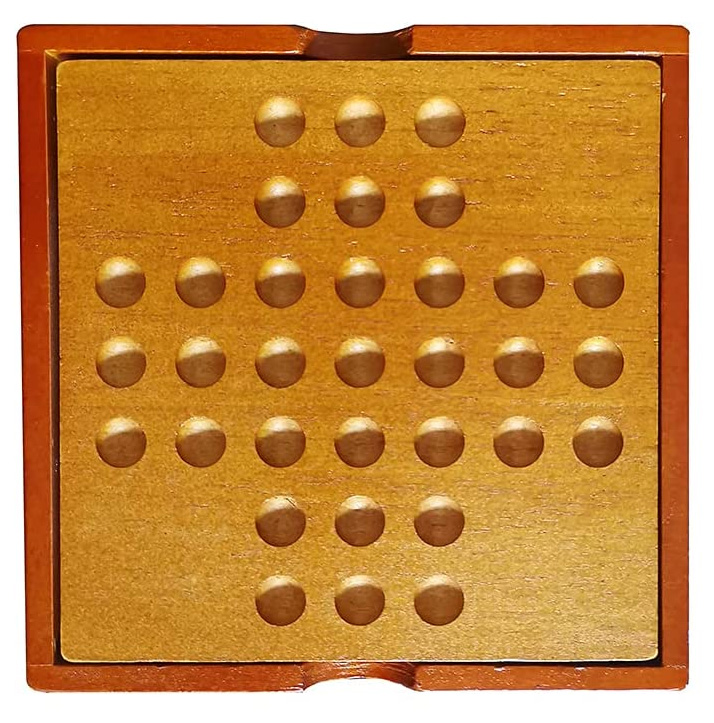
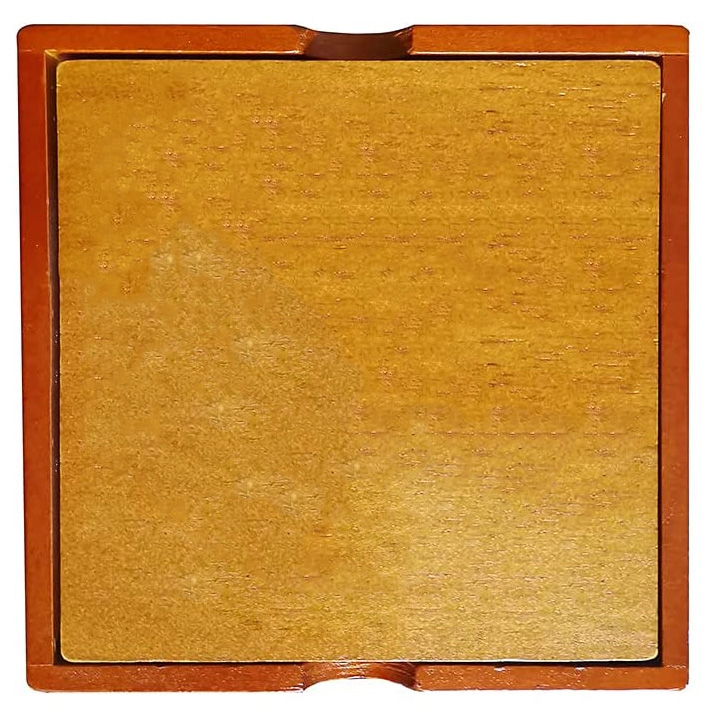
css almost works

Changed region(s): [[0.0616, 0.1217, 0.8936, 0.8824]]

diff --git a/fun/03/index.html b/fun/03/index.html
@@ -11,51 +11,67 @@
 		<div class="all">
 			<div class="board">
 				<div class="line">
-					<div id="slot13" class="peg" draggable="true" ondragstart="dragStart(event);"></div>
-					<div id="slot14" class="peg" draggable="true" ondragstart="dragStart(event);"></div>
-					<div id="slot15" class="peg" draggable="true" ondragstart="dragStart(event);"></div>
+					<div class="slot"></div>
+					<div class="slot"></div>
+					<div id="slot13" class="peg slot" draggable="true" ondragstart="dragStart(event);"><img src="peg2.png"></div>
+					<div id="slot14" class="peg slot" draggable="true" ondragstart="dragStart(event);"><img src="peg2.png"></div>
+					<div id="slot15" class="peg slot" draggable="true" ondragstart="dragStart(event);"><img src="peg2.png"></div>
+					<div class="slot"></div>
+					<div class="slot"></div>
 		  		</div>
 				<div class="line">
-					<div id="slot23" class="peg" draggable="true" ondragstart="dragStart(event);"></div>
-					<div id="slot24" class="peg" draggable="true" ondragstart="dragStart(event);"></div>
-					<div id="slot25" class="peg" draggable="true" ondragstart="dragStart(event);"></div>
+					<div class="slot"></div>
+					<div class="slot"></div>
+					<div id="slot23" class="peg slot" draggable="true" ondragstart="dragStart(event);"><img src="peg2.png"></div>
+					<div id="slot24" class="peg slot" draggable="true" ondragstart="dragStart(event);"><img src="peg2.png"></div>
+					<div id="slot25" class="peg slot" draggable="true" ondragstart="dragStart(event);"><img src="peg2.png"></div>
+					<div class="slot"></div>
+					<div class="slot"></div>
 		  		</div>
 				<div class="line">
-					<div id="slot31" class="peg" draggable="true" ondragstart="dragStart(event);"></div>
-					<div id="slot32" class="peg" draggable="true" ondragstart="dragStart(event);"></div>
-					<div id="slot33" class="peg" draggable="true" ondragstart="dragStart(event);"></div>
-					<div id="slot34" class="peg" draggable="true" ondragstart="dragStart(event);"></div>
-					<div id="slot35" class="peg" draggable="true" ondragstart="dragStart(event);"></div>
-					<div id="slot36" class="peg" draggable="true" ondragstart="dragStart(event);"></div>
-					<div id="slot37" class="peg" draggable="true" ondragstart="dragStart(event);"></div>
+					<div id="slot31" class="peg slot" draggable="true" ondragstart="dragStart(event);"><img src="peg2.png"></div>
+					<div id="slot32" class="peg slot" draggable="true" ondragstart="dragStart(event);"><img src="peg2.png"></div>
+					<div id="slot33" class="peg slot" draggable="true" ondragstart="dragStart(event);"><img src="peg2.png"></div>
+					<div id="slot34" class="peg slot" draggable="true" ondragstart="dragStart(event);"><img src="peg2.png"></div>
+					<div id="slot35" class="peg slot" draggable="true" ondragstart="dragStart(event);"><img src="peg2.png"></div>
+					<div id="slot36" class="peg slot" draggable="true" ondragstart="dragStart(event);"><img src="peg2.png"></div>
+					<div id="slot37" class="peg slot" draggable="true" ondragstart="dragStart(event);"><img src="peg2.png"></div>
 		  		</div>
 				<div class="line">
-					<div id="slot41" class="peg" draggable="true" ondragstart="dragStart(event);"></div>
-					<div id="slot42" class="peg" draggable="true" ondragstart="dragStart(event);"></div>
-					<div id="slot43" class="peg" draggable="true" ondragstart="dragStart(event);"></div>
-					<div id="slot44" class="empty-slot" ondragover="allowDrop(event);" ondrop="drop(event);"></div>
-					<div id="slot45" class="peg" draggable="true" ondragstart="dragStart(event);"></div>
-					<div id="slot46" class="peg" draggable="true" ondragstart="dragStart(event);"></div>
-					<div id="slot47" class="peg" draggable="true" ondragstart="dragStart(event);"></div>
+					<div id="slot41" class="peg slot" draggable="true" ondragstart="dragStart(event);"><img src="peg2.png"></div>
+					<div id="slot42" class="peg slot" draggable="true" ondragstart="dragStart(event);"><img src="peg2.png"></div>
+					<div id="slot43" class="peg slot" draggable="true" ondragstart="dragStart(event);"><img src="peg2.png"></div>
+					<div id="slot44" class="empty-slot slot" ondragover="allowDrop(event);" ondrop="drop(event);"><img src="emptySlot.png"/></div>
+					<div id="slot45" class="peg slot" draggable="true" ondragstart="dragStart(event);"><img src="peg2.png"></div>
+					<div id="slot46" class="peg slot" draggable="true" ondragstart="dragStart(event);"><img src="peg2.png"></div>
+					<div id="slot47" class="peg slot" draggable="true" ondragstart="dragStart(event);"><img src="peg2.png"></div>
 		  		</div>
 				<div class="line">
-					<div id="slot51" class="peg" draggable="true" ondragstart="dragStart(event);"></div>
-					<div id="slot52" class="peg" draggable="true" ondragstart="dragStart(event);"></div>
-					<div id="slot53" class="peg" draggable="true" ondragstart="dragStart(event);"></div>
-					<div id="slot54" class="peg" draggable="true" ondragstart="dragStart(event);"></div>
-					<div id="slot55" class="peg" draggable="true" ondragstart="dragStart(event);"></div>
-					<div id="slot56" class="peg" draggable="true" ondragstart="dragStart(event);"></div>
-					<div id="slot57" class="peg" draggable="true" ondragstart="dragStart(event);"></div>
+					<div id="slot51" class="peg slot" draggable="true" ondragstart="dragStart(event);"><img src="peg2.png"></div>
+					<div id="slot52" class="peg slot" draggable="true" ondragstart="dragStart(event);"><img src="peg2.png"></div>
+					<div id="slot53" class="peg slot" draggable="true" ondragstart="dragStart(event);"><img src="peg2.png"></div>
+					<div id="slot54" class="peg slot" draggable="true" ondragstart="dragStart(event);"><img src="peg2.png"></div>
+					<div id="slot55" class="peg slot" draggable="true" ondragstart="dragStart(event);"><img src="peg2.png"></div>
+					<div id="slot56" class="peg slot" draggable="true" ondragstart="dragStart(event);"><img src="peg2.png"></div>
+					<div id="slot57" class="peg slot" draggable="true" ondragstart="dragStart(event);"><img src="peg2.png"></div>
 		  		</div>
 				<div class="line">
-					<div id="slot63" class="peg" draggable="true" ondragstart="dragStart(event);"></div>
-					<div id="slot64" class="peg" draggable="true" ondragstart="dragStart(event);"></div>
-					<div id="slot65" class="peg" draggable="true" ondragstart="dragStart(event);"></div>
+					<div class="slot"></div>
+					<div class="slot"></div>
+					<div id="slot63" class="peg slot" draggable="true" ondragstart="dragStart(event);"><img src="peg2.png"></div>
+					<div id="slot64" class="peg slot" draggable="true" ondragstart="dragStart(event);"><img src="peg2.png"></div>
+					<div id="slot65" class="peg slot" draggable="true" ondragstart="dragStart(event);"><img src="peg2.png"></div>
+					<div class="slot"></div>
+					<div class="slot"></div>
 		  		</div>
 				<div class="line">
-					<div id="slot73" class="peg" draggable="true" ondragstart="dragStart(event);"></div>
-					<div id="slot74" class="peg" draggable="true" ondragstart="dragStart(event);"></div>
-					<div id="slot75" class="peg" draggable="true" ondragstart="dragStart(event);"></div>
+					<div class="slot"></div>
+					<div class="slot"></div>
+					<div id="slot73" class="peg slot" draggable="true" ondragstart="dragStart(event);"><img src="peg2.png"></div>
+					<div id="slot74" class="peg slot" draggable="true" ondragstart="dragStart(event);"><img src="peg2.png"></div>
+					<div id="slot75" class="peg slot" draggable="true" ondragstart="dragStart(event);"><img src="peg2.png"></div>
+					<div class="slot"></div>
+					<div class="slot"></div>
 		  		</div>
 			</div>
 		</div>

diff --git a/fun/03/pegSolitaire.css b/fun/03/pegSolitaire.css
@@ -3,6 +3,7 @@ body {
 }
 body, html, .all {
     height: 100%;
+    width: 100%;
 }
 .all {
     display: flex;
@@ -11,24 +12,28 @@ body, html, .all {
 }
 .board {
     background-image: url(board.jpg);
-     width: 714px;
-     height: 723px;
-     display: flex;
-     flex-direction: column;
-     gap: 15px;
-     justify-content: center;
+    background-size: contain;
+    background-repeat: no-repeat;
+    display: flex;
+    flex-direction: column;
+    justify-content: center;
+    width: 100%;
+    max-width: 470px;
+    max-height: 500px;
+    padding: 15%;
 }
 .line {
     display: flex;
     justify-content: center;
-    gap: 16px;
 }
 .peg {
-    width: 65px;
-    height: 65px;
-    background-image: url(peg2.png)
 }
 .empty-slot {
-    width: 65px;
-    height: 65px;
+}
+.slot {
+    flex-grow: 1;
+    flex-basis: 0;
+}
+.slot img {
+    max-width: 100%;
 }

diff --git a/fun/03/pegSolitaire.js b/fun/03/pegSolitaire.js
@@ -58,8 +58,8 @@ function drop(event) {
     var middleId = getMiddleId(idSource, idTarget);
     if (middleId != '') {
         target.outerHTML = '<div id="' + idTarget + '" class="peg" draggable="true" ondragstart="dragStart(event);"></div>';
-        source.outerHTML = '<div id="' + idSource + '" class="empty-slot" ondragover="allowDrop(event);" ondrop="drop(event);"></div>';
+        source.outerHTML = '<div id="' + idSource + '" class="empty-slot" ondragover="allowDrop(event);" ondrop="drop(event);"><img src="emptySlot.png"/></div>';
         document.getElementById(middleId).outerHTML =
-            '<div id="' + middleId + '" class="empty-slot" ondragover="allowDrop(event);" ondrop="drop(event);"></div>';
+            '<div id="' + middleId + '" class="empty-slot" ondragover="allowDrop(event);" ondrop="drop(event);"><img src="emptySlot.png"/></div>';
     }
 }
